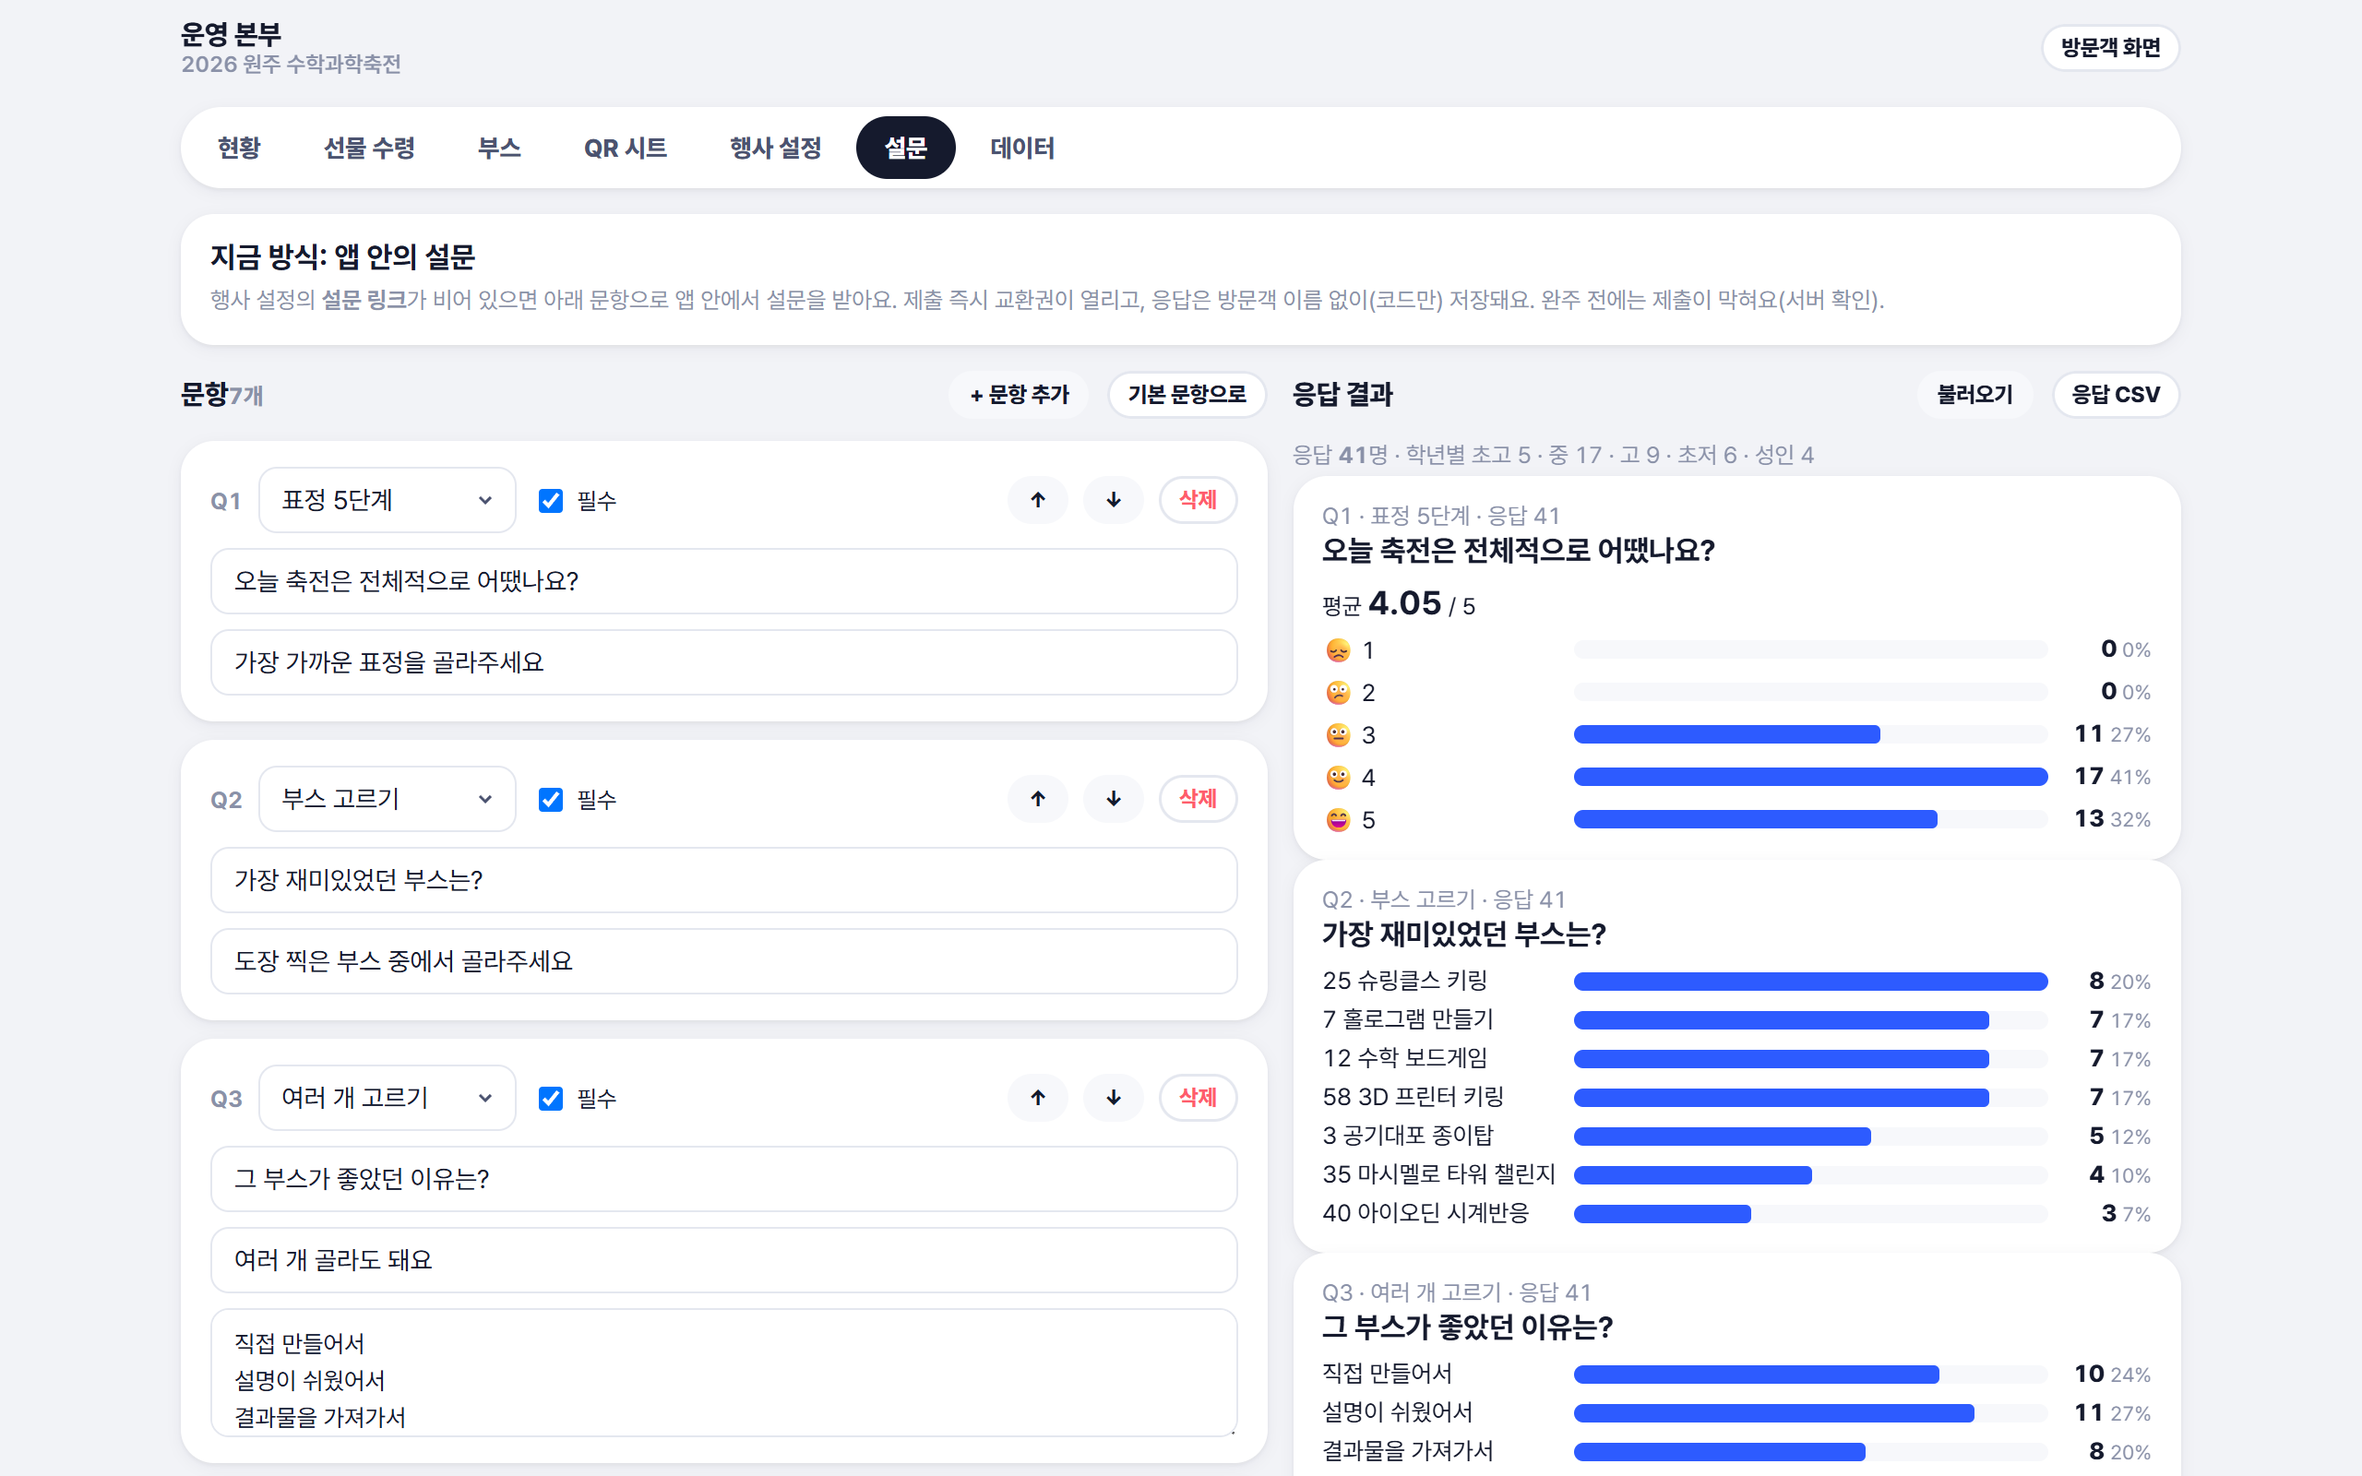
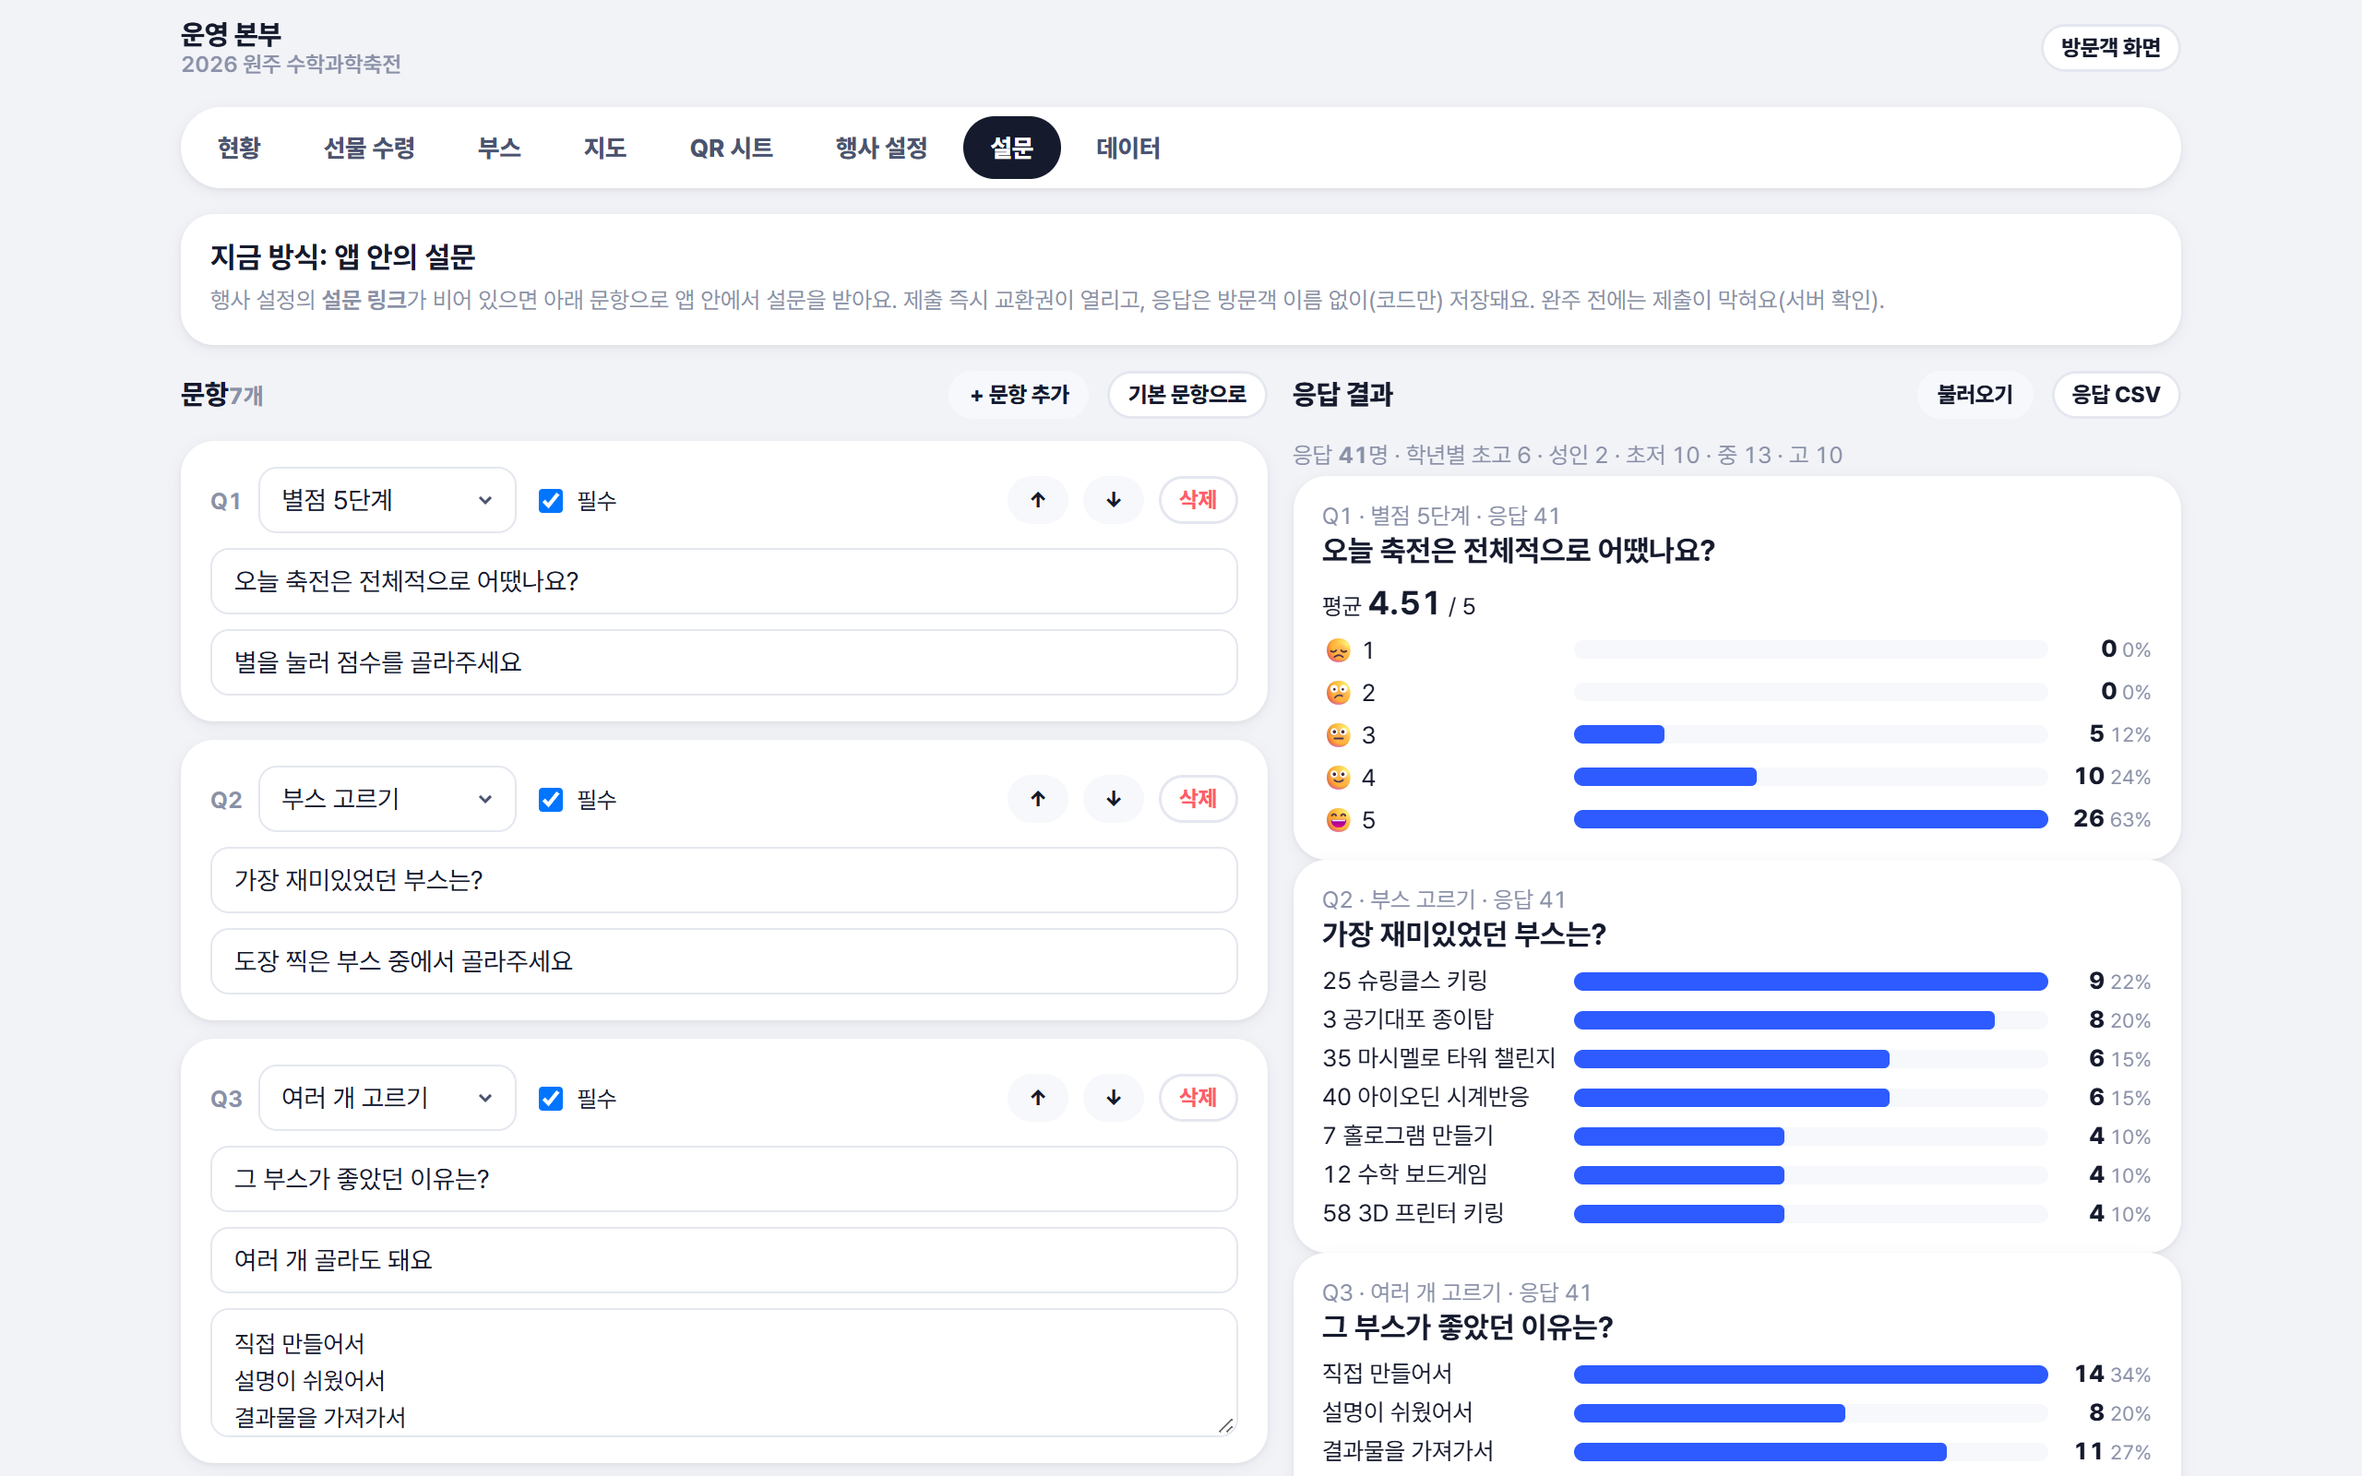
README: 행사 전 점검 절, 시간대 전환 화면 2장, 지속 테스트 분 단위 차트, 설문 별점·잠금 규칙·토큰 길이 반영

diff --git a/README.md b/README.md
@@ -37,7 +37,7 @@
   </tr>
   <tr>
     <td align="center"><img src="assets/my-stamps-done.png" width="150"><br><sub><b>완주</b><br>7개 모으면 설문 안내</sub></td>
-    <td align="center"><img src="assets/survey.png" width="150"><br><sub><b>앱 내 설문</b><br>표정·내 부스 고르기·객관식</sub></td>
+    <td align="center"><img src="assets/survey.png" width="150"><br><sub><b>앱 내 설문</b><br>별점·내 부스 고르기·객관식</sub></td>
     <td align="center"><img src="assets/voucher.png" width="150"><br><sub><b>교환권</b><br>제출 즉시 QR + 코드</sub></td>
     <td align="center" colspan="2"><img src="assets/map-pc.png" width="320"><br><sub><b>지도 (PC)</b><br>부스 95개 전체, 확대하면 이름표</sub></td>
   </tr>
@@ -57,7 +57,7 @@
     <td><img src="assets/admin-survey.png"><br><sub><b>설문</b> — 문항 편집(5가지 유형) + 결과 집계 + CSV</sub></td>
   </tr>
   <tr>
-    <td><img src="assets/admin-booths.png"><br><sub><b>부스</b> — 카드 편집·순서·엑셀·PDF/사진, 운영 시간·시간대 전환·대상(초등/중고등)</sub></td>
+    <td><img src="assets/admin-booths.png"><br><sub><b>부스</b> — 카드 편집·순서·엑셀·PDF/사진, 운영 시간·대상(초등/중고등), 시간대 전환(오후엔 다른 부스로: 번호·자료·도장 유무까지)</sub></td>
     <td><img src="assets/admin-qr.png"><br><sub><b>QR 시트</b> — 부스별 토큰 포함 QR, A4 인쇄</sub></td>
   </tr>
   <tr>
@@ -65,8 +65,12 @@
     <td><img src="assets/admin-status.png"><br><sub><b>운영 상태</b> — 쉬는 부스를 한 화면에서 골라 적용, 방문객 폰엔 흐리게</sub></td>
   </tr>
   <tr>
-    <td><img src="assets/admin-event.png"><br><sub><b>행사 설정</b> — 행사명·완주 개수·설문·긴급 공지·일정, 열린 폰에 5분 내 반영</sub></td>
+    <td><img src="assets/admin-event.png"><br><sub><b>행사 설정</b> — 행사명·완주 개수·설문·긴급 공지·일정, 열린 폰에 2분 내 반영</sub></td>
     <td><img src="assets/soak-test.png"><br><sub><b>지속 테스트</b> — 초당 4명 × 10분, 에러 0 · p95 64ms</sub></td>
+  </tr>
+  <tr>
+    <td><img src="assets/admin-time-sheet.png"><br><sub><b>시간대 전환</b> — 오전 운영본부 자리가 12:00 부터 체험 부스로: 바뀐 후 번호·이름·분류·운영 시간·QR 도장 유무·자료를 따로 지정. 시각은 24시간 입력 + 시·분 칩</sub></td>
+    <td><img src="assets/booth-variant.png"><br><sub><b>전환 후 방문객 화면</b> — 같은 QR·같은 자리지만 번호 1·오후 부스로 보이고 "12:00 전엔 본1" 안내. 열린 폰도 20초 안에 갱신</sub></td>
   </tr>
 </table>
 
@@ -100,7 +104,7 @@ flowchart LR
 ```
 
 - **한 파일 구조** — CONFIG → UTIL → STORAGE → DATA LAYER(LocalDB / SupabaseDB, 같은 인터페이스) → 상태 → 지도 기하 → 라우터 → 화면 → 스캐너 → 관리자 → BOOT. `CONFIG.supabaseUrl` 을 비우면 브라우저 저장소만으로 동작(데모).
-- **설정은 서버에** — 행사명·완주 개수·설문 문항·공지·일정을 관리자가 저장하면 열린 폰에도 5분 안에 반영.
+- **설정은 서버에** — 행사명·완주 개수·설문 문항·공지·일정을 관리자가 저장하면 열린 폰에도 2분 안에 반영. 저장은 서버에서 키 단위로 병합해 관리자 둘이 다른 항목을 동시에 저장해도 서로 지우지 않음.
 - **대시보드는 요청 하나** — `admin_dashboard` RPC 가 집계 전부를 jsonb 로 (이름 없음). 15초 갱신에 요청 1개. 부스 줄을 누르면 그 부스 참여자 명단(`admin_booth_visitors`)만 따로.
 - **무료 한도 안에서 4~5만 명** — jsQR·qrcode 는 CDN 우선(3초 타임아웃 → 같은 서버 파일 폴백, 1년 immutable), HTML 만 no-cache, favicon 인라인, 부스 목록은 배포 시 HTML 에 박은 시드의 버전이 서버 `settings.boothsVersion` 과 같으면 요청 생략. 첫 방문·재방문 모두 Vercel 1건(HTML) · Supabase 1~3건(각 1KB 안팎). 4만 명 기준 Vercel Edge Requests 약 40만/100만, Supabase egress 약 1.5GB/5GB.
 - **지도는 코드로** — 이미지 없이 스타디움 기하(직선+반원)를 계산해 SVG 로. 부스 번호·구역만 바꾸면 자리가 따라옴.
@@ -119,8 +123,9 @@ flowchart LR
 
 - anon(publishable) 키는 공개용. `service_role` 키·DB 비밀번호는 코드 어디에도 없음.
 - 방문객 데이터는 **uuid 를 아는 폰 = 본인**. 폰을 바꾸면 6자리 코드 + 이름으로 이어받기.
-- 관리자 비밀번호는 pgcrypto 해시로 서버 저장, 8자 이상 강제. 로그인 실패 10회(10분) → 1분 잠금. 틀렸을 때 지연(`pg_sleep`)은 두지 않음 — 연결을 붙들어 DoS 통로가 됨.
-- 치팅: QR 주소에 부스별 서버 토큰(`booth_tokens`, 읽기 불가) + 같은 사람 도장 간격 90초. 링크를 공유받아도 7개에 10분 넘게 걸림.
+- 관리자 비밀번호는 pgcrypto 해시로 서버 저장, 8자 이상 강제. 10분 안 10회 틀리면 1분 잠금 — 잠금은 **틀린 비밀번호에만** 걸리고 맞는 비밀번호는 잠금 중에도 통과(외부인이 관리자 주소에서 비밀번호를 반복해 틀려도 운영본부 기능이 멈추지 않음). 틀렸을 때 지연(`pg_sleep`)은 두지 않음 — 연결을 붙들어 DoS 통로가 됨.
+- 치팅: QR 주소에 부스별 서버 토큰(`booth_tokens`, 읽기 불가, 32자) + 같은 사람 도장 간격 90초. 링크를 공유받아도 7개에 10분 넘게 걸림.
+- 선물 수령은 서버가 '아직 안 받은 사람'만 처리하고 결과를 돌려줌 — 운영본부 여러 명이 같은 교환권을 동시에 처리해도 한 번만.
 - 행사 후 관리자 › 데이터에서 개인정보 파기.
 
 ## 부하·지속 테스트 (Supabase 무료 플랜)
@@ -135,6 +140,8 @@ flowchart LR
 ### 지속 테스트 2차 — 분 단위 실측 (`지속테스트_2026-09-15_15분_6ps.json`)
 
 도착률을 고정(초당 6명)하면 누적 방문객이 늘면서 초당 요청이 선형으로 올라간다. 어디서 꺾이는지 보려고 분 단위로 기록했다.
+
+<p align="center"><img src="assets/soak-by-minute.png" width="100%" alt="지속 테스트 2차 분 단위 실측 — 초당 요청 수와 쓰기/읽기 p95"></p>
 
 | 구간 | 초당 요청 | p50 | p95 | 최대 | 대시보드 폴링 p50 | 에러 |
 |---|---|---|---|---|---|---|
@@ -156,11 +163,29 @@ flowchart LR
 
 **요청 수·전송량 (재방문 1회, Chrome 실측)**: Vercel HTML 1건(js 는 디스크 캐시) · Supabase 설정 1건(등록자는 내 정보·내 도장 포함 3건) · 404 없음. 5만 명 × 리로드 10회 ≈ Vercel 65만 요청, Supabase 전송 수백 MB.
 
+## 행사 전 점검 (2026-10)
+
+행사 사흘 전 방문객 흐름 · 관리자 · 지도 · 대시보드 · SQL · 보안으로 영역을 나눠 코드를 다시 읽고, 의심 지점마다 Playwright 재현 스크립트를 만들어 확인했다. 43건을 찾아 1건(Storage 익명 업로드 정책, 행사 후 회수)을 빼고 모두 수정했다. 주요 항목:
+
+| 발견 | 수정 |
+|---|---|
+| QR 을 먼저 찍은 미등록 방문객이 등록 후 도장 화면으로 돌아오지 못함 — 라우터가 해시 전체를 디코딩해 복귀 주소(`%2Fstamp%2F7`)가 쪼개짐 | 조각별 디코딩. 회귀 테스트 `test_qr_first.mjs` 추가 |
+| 관리자 잠금이 전역이라 외부인이 틀린 비밀번호를 반복하면 운영본부 기능까지 1분씩 멈춤 | 잠금은 틀린 비밀번호에만. 실서버 `test_lockout.mjs` 로 확인 |
+| 설정 저장이 통째 교체라 관리자 둘이 다른 항목을 저장하면 먼저 저장한 변경이 사라짐 | 서버 키 병합 + 저장 직전 서버값 재읽기 |
+| 교환권을 관리자 여러 명이 동시에 처리하면 중복 수령 | 서버가 미수령일 때만 처리하고 결과 반환, 처리 직전 재조회 |
+| 부스 번호가 `onclick` 문자열에 그대로 들어가 따옴표 하나로 버튼이 깨짐 | `data-*` 속성 + 이벤트 위임, 번호는 한글·영문·숫자 6자 규칙 |
+| 서버가 느리면 부팅 중 최대 20초 빈 화면 | 로딩 표시, 설정·내 정보 병렬 로드 |
+| 대시보드 히트맵이 도장 없는 부스를 뺀 뒤 자리를 계산해 앱 지도와 어긋남 | 전체 목록 기준으로 자리 계산 |
+| 시간대 전환 부스가 지도 색·대시보드에 반영되지 않음 | 지도·대시보드도 전환 규칙 공유 |
+| 이어받기 화면의 \[새로 등록\] 버튼이 속성 따옴표 충돌로 동작하지 않음 | 핸들러로 교체, 복귀 주소 검증 |
+
+그 밖에 오프라인 재전송 안내 문구, 전환 시각 직후 화면 갱신, 엑셀 불러오기 검증, 번호 `2`/`02` 중복, 지도 이름표가 정문을 가리는 문제 등 표시·편의 항목 27건.
+
 ## 설치
 
 1. **Supabase** 프로젝트 생성 → SQL Editor 에 `supabase_setup.sql` 통째로 붙여넣고 Run (다시 실행해도 됨).
 2. `원주축전_스탬프앱_3.html` 의 `CONFIG.supabaseUrl` · `supabaseAnonKey` 채우기 (`운영대시보드.html` 도 같은 값).
-3. 관리자 `#/admin` (초기 비번 `1234`) → 데이터 탭에서 비번 변경 → 부스 탭에서 저장(서버로 올라가며 QR 토큰 발급) → QR 시트 인쇄.
+3. 관리자 `#/admin` (초기 비번 `1234`) → 데이터 탭에서 비번 변경 → 부스 탭에서 저장(서버로 올라가며 QR 토큰 발급) → QR 시트 인쇄. 저장 안 한 부스 변경이 있으면 QR 시트가 먼저 저장하라고 안내.
 4. 배포: `배포.ps1` (deploy/ 갱신 → `?v=DEV` 를 배포 시각으로 치환 → 서버 부스 목록·버전을 `SEED_BOOTHS`/`seedVersion` 에 박음 → `vercel deploy --prod`). 부스를 고친 뒤 재배포하면 방문객 폰이 부스 목록을 서버에서 받지 않음. 배포 주소가 바뀌면 QR 재인쇄.
 
 로컬에서 그냥 열어보려면 `CONFIG.supabaseUrl` 을 비우면 됨 — 브라우저 저장소로 동작하고 관리자 › 데이터에 데모 데이터 버튼이 생김. `CONFIG.testStampInput: true` 면 카메라 대신 부스 번호 입력창(https 없는 로컬용, 배포 스크립트가 false 로 바꿈).
@@ -171,11 +196,11 @@ flowchart LR
 ```
 원주축전_스탬프앱_3.html   앱 전체 (방문객 + 관리자). 스크립트 맨 위에 설계 개요·데이터 흐름 주석
 운영대시보드.html          운영본부 대시보드 (admin_dashboard RPC)
-supabase_setup.sql         테이블·뷰·RLS·RPC·Storage. 1~10절, 재실행 가능
+supabase_setup.sql         테이블·뷰·RLS·RPC·Storage. 1~17절, 재실행 가능
 jsQR.js · qrcode.min.js    로컬 라이브러리 (배포 시 같이)
 배포.ps1 · deploy/         Vercel 배포 (vercel.json: cleanUrls, html no-cache · js immutable / 배포.ps1 이 ?v= 버전 치환)
 기능정리.md                요구사항·결정 사항·변경 이력의 단일 출처
-tests/                     playwright e2e (test_v3 · test_survey · test_live_survey), soak.mjs 지속 테스트, soakchart.mjs 결과 차트, shots_public.mjs README 스크린샷
+tests/                     playwright e2e (test_v3 · test_survey · test_qr_first · test_media_sheet 등 12벌), soak.mjs 지속 테스트, soakchart.mjs 결과 차트, shots_public.mjs README 스크린샷
 assets/                    README 스크린샷 (전부 더미 데이터)
 ```
 
@@ -188,7 +213,8 @@ assets/                    README 스크린샷 (전부 더미 데이터)
 | `node tests/test_survey.mjs` | 로컬 모드 e2e: 앱 내 설문 제출·관리자 문항 편집·결과·CSV |
 | `node tests/test_gift_scan.mjs` · `test_booth_visitors.mjs` | 로컬 모드 e2e: 교환권 QR 연속 스캔 · 부스별 참여자 명단(현황 시트·대시보드 카드) |
 | `node tests/test_seed.mjs` | 부스 시드 버전 매칭 · CDN 우선 로드 · CDN 차단/무응답 폴백 |
-| `node tests/test_lockout.mjs <비번>` (또는 ADMIN_PW) | 실서버: 로그인 10회 실패 → 1분 잠금 → 해제 (지연 없음 확인) |
+| `node tests/test_qr_first.mjs` | 로컬 모드 e2e: QR 먼저 찍은 미등록 방문객이 등록 후 도장 화면으로 돌아와 찍히는지(숫자·한글 부스 번호) |
+| `node tests/test_lockout.mjs <비번>` (또는 ADMIN_PW) | 실서버: 틀린 비번 10회 → 1분 잠금, 잠금 중 맞는 비번 통과 → 해제 (지연 없음 확인) |
 | `node tests/soak.mjs [분] [초당 도착] [접두어]` | 지속 테스트 → `지속테스트_날짜.json`, 이어서 `node tests/soakchart.mjs` 로 PNG. 테스트 데이터는 남김 |
 
 ### 설계 메모
